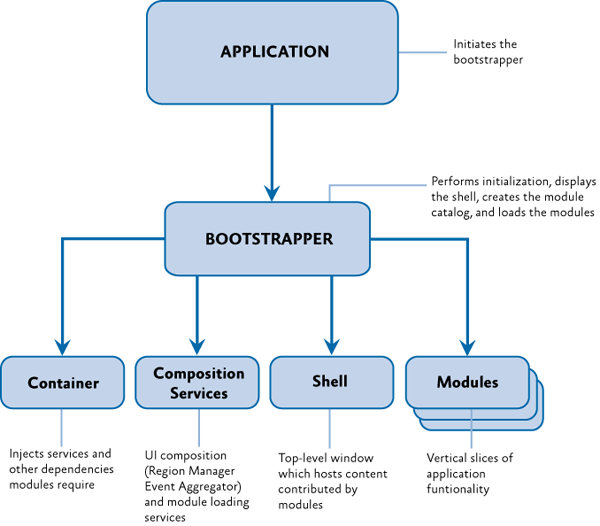
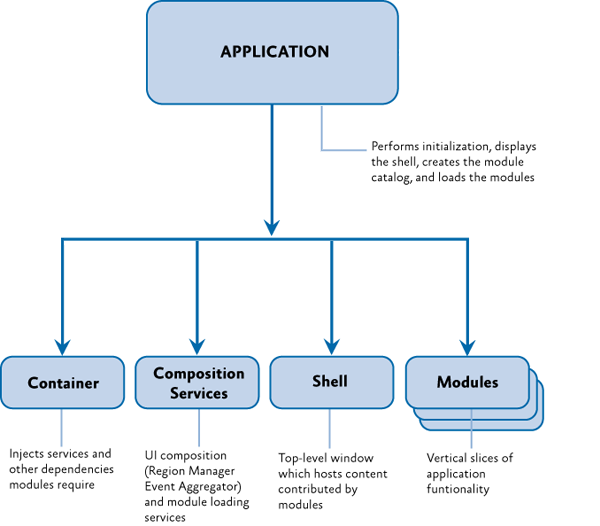
updated the initializing and introduction in wpf.

Changed region(s): [[0.27, 0.2738, 1.0, 0.5475], [0.66, 0.0608, 0.87, 0.1217], [0.51, 0.2129, 0.54, 0.2738]]

diff --git a/docs/wpf/Initializing.md b/docs/wpf/Initializing.md
@@ -2,83 +2,118 @@
 
 This topic addresses what needs to happen to get a Prism for WPF application up and running. A Prism application requires registration and configuration during the application startup process—this is known as bootstrapping the application. The Prism bootstrapping process includes creating and configuring a module catalog, creating a dependency injection container such as Unity, configuring default region adapter for UI composition, creating and initializing the shell view, and initializing modules.
 
-## What Is a Bootstrapper?
+## Initializing the Application
 
-A bootstrapper is a class that is responsible for the initialization of an application built using the Prism Library. By using a bootstrapper, you have more control of how the Prism Library components are wired up to your application.
+The Prism Library includes abstract classes that are derived from the Application class in WPF. Each of these abstract classes are centered around a dependency injection container. For the purposes of this article ```Prism.Unity.PrismApplication``` class will be used. Many of the methods in the ```PrismApplication``` class are virtual and can be overridden as appropriate for your needs.
 
-The Prism Library includes a default abstract **Bootstrapper** base class that can be specialized for use with any container. Many of the methods on the bootstrapper classes are virtual methods. You can override these methods as appropriate in your own custom bootstrapper implementation. 
+The PrismApplication class takes care of much of the boilerplate code that would typically need to be included to start up an app. Apps are only required to implement CreateShell and RegisterTypes.
 
-![Basic stages of the bootstrapping process](images/Ch2BootstrapperFig1.png)
+Below are the basic steps that take place within Prism for WPF.
 
-Basic stages of the bootstrapping process.
+| Step   | Override | Description |
+|--------|----------|-------------|
+| **1. Configure Viewmodel Locator** | Yes | This step creates the object that will automatically determine the correct view model type for a given view. |
+| **2. Create DI Container** | Yes | This step will create the dependency injection container and register it with the Application class. Though it can be overridden, if the app is using one of the containers supplied by the Prism Library, it probably shouldn't be. |
+| **3. Create Module Catalog** | Yes | This step creates the module catalog that is used to manage the loading and dependencies of the modules in an application. By default, this step provides the most basic module catalog implementation where the app registers modules via code. Override this to use a different catalog technique. |
+| **4. DI Prism Services** | Yes | This step is used to register all of the services that Prism requires with the selected dependency injection container. It can be overridden, but probably shouldn't. App specific services should instead be registered in step 4 |
+| **5. DI App Services** | **MUST** | This step is used to register all of the app specific services with the selected dependency injection container. This method must be implemented. |
+| **6. Service Locator** | Yes | The IServiceLocator pattern is used extensively in the regions section of Prism. It is hooked up the DI container so that it can properly resolve objects. |
+| **7. Configure Module Catalog** | Yes | If the app is registering modules via code, override this function to perform that operation. |
+| **8. Configure Region Adapter Mappings** | Yes | This step configures the default region adapter mappings. |
+| **9. Configure Region Behavior** | Yes | Configure the list of default behaviors that will be added to regions. |
+| **10. Register Exceptions**| Yes | Registers exception types that are part of the framework. |
+| **11. Create Main Window**| **MUST** | This step is used to create the main window and must be overridden for each app. Remember to use the container to create the object so that all the services will be injected. |
+| **12. Initialize Modules** | Yes | This step is used to go through the module catalog and load and initialize each. Probably doesn't need to be overridden. |
+| **13. OnInitialized** | Yes | Final step before the app is visible to the user. Just displays the MainWindow. Probably doesn't need to be overridden. |
 
-The Prism Library provides some additional base classes, derived from **Bootstrapper**, that have default implementations that are appropriate for most applications. The only stages left for your application bootstrapper to implement are creating and initializing the shell.
+
 
 ## Dependency Injection
 
-Applications built with the Prism Library rely on dependency injection provided by a container. The library provides assemblies that work with the Unity Application Block (Unity) or Managed Extensibility Framework (MEF), and it allows you to use other dependency injection containers. Part of the bootstrapping process is to configure this container and register types with the container.
-
-The Prism Library includes the **UnityBootstrapper** and **MefBootstrapper** classes, which implement most of the functionality necessary to use either Unity or MEF as the dependency injection container in your application. In addition to the stages shown in the previous illustration, each bootstrapper adds some steps specific to its container.
+Applications built with the Prism Library rely on dependency injection provided by a container. The library provides assemblies that work with the Unity, AutoFAC, Dryloc, MEF, Ninject and StructureMap. It also allows the application to use other dependency injection containers. Part of the bootstrapping process is to configure this container and register types with the container.
 
 ## Creating the Shell
 
 In a traditional Windows Presentation Foundation (WPF) application, a startup Uniform Resource Identifier (URI) is specified in the App.xaml file that launches the main window.
 
-In an application created with the Prism Library, it is the bootstrapper's responsibility to create the shell or the main window. This is because the shell relies on services, such as the Region Manager, that need to be registered before the shell can be displayed.
+In an application created with the Prism Library, the application class will create the main window using the container so that any needed dependencies are automatically injected in, such as the Region Manager, the Event Aggregator etc. It would look something like this in the Application class:
+```
+protected override Window CreateShell()
+{
+    return Container.Resolve<MyAppMainWindow>();
+}
+```
 
 ## Key Decisions
 
-After you decide to use the Prism Library in your application, there are a number of additional decisions that need to be made:
+After deciding to use the Prism Library in the application, there are a number of additional decisions that need to be made:
 
-- You will need to decide whether you are using MEF, Unity, or another container for your dependency injection container. This will determine which provided bootstrapper class you should use and whether you need to create a bootstrapper for another container.
-- You should think about the application-specific services you want in your application. These will need to be registered with the container.
-- Determine whether the built-in logging service is adequate for your needs or if you need to create another logging service.
+- Decide which dependency injection container to use: MEF, Unity, or another. The Prism Library supplies implementation for AutoFac, Dryloc, MEF, Ninject, StructureMap and Unity out of the box. Or you can use something else if that makes sense for you. For out of the box options, use Nuget to add the correct packages to the application
+  - Prism.Unity
+  - Prism.AutoFac
+  - Prism.Dryloc
+  - Prism.MEF
+  - Prism.Ninject
+  - Prism.StructureMap
+- Determine the application-specific services required in the application. These will need to be registered with the container.
+- Determine whether the built-in logging service is adequate for the application or if another logging service needs to be created.
 - Determine how modules will be discovered by the application: via explicit code declarations, code attributes on the modules discovered via directory scanning, configuration, or XAML.
 
 The rest of this topic provides more details.
 
 ## Core Scenarios
 
-Creating a startup sequence is an important part of building your Prism application. This section describes how to create a bootstrapper and customize it to create the shell, configure the dependency injection container, register application level services, and how to load and initialize the modules.
+Creating a startup sequence is an important part of building a Prism application. This section describes the steps to take a new WPF application project created in Visual Studio and turn it into a Prism based app. Below it is assumed that Unity will be the dependency injection container.
 
-## Creating a Bootstrapper for Your Application
+### Add the Nuget Packages
+After creating the project, add the Prism.Unity nuget package to the app. This will automatically add in other dependencies such as Prism.WPF, Prism.Core and Unity.
 
-If you choose to use either Unity or MEF as your dependency injection container, creating a simple bootstrapper for your application is easy. You will need to create a new class that derives from either **MefBootstrapper** or **UnityBootstrapper**. Then, implement the **CreateShell** method. Optionally, you may override the **InitializeShell** method for shell specific initialization.
+### Update the App Class to Derive from PrismApplication
 
-### Implementing the CreateShell Method
+In the App.xaml markup file, add in the name space declaration and update the base class type:
+```
+<prism:PrismApplication x:Class="HelloWorld.App"
+    xmlns="http://schemas.microsoft.com/winfx/2006/xaml/presentation"
+    xmlns:x="http://schemas.microsoft.com/winfx/2006/xaml"
+    xmlns:prism="http://prismlibrary.com/"
+    xmlns:local="clr-namespace:HelloWorld">
+    <Application.Resources>
+         
+    </Application.Resources>
+</prism:PrismApplication>
+```
 
-The **CreateShell** method allows a developer to specify the top-level window for a Prism application. The shell is usually the **MainWindow** or **MainPage**. Implement this method by returning an instance of your application's shell class. In a Prism application, you can create the shell object, or resolve it from the container, depending on your application's requirements.
-
-An example of using the **ServiceLocator** to resolve the shell object is shown in the following code example.
-
-```cs
-protected override DependencyObject CreateShell()
+And in the App.xaml.cs class, update the base class and override the abstract methods.
+```
+public partial class App : Prism.Unity.PrismApplication
 {
-    return ServiceLocator.Current.GetInstance<Shell>();
+    public App()
+    {
+    }
+
+    protected override Window CreateShell()
+    {
+        // MainWindow is the shell window of the app
+        return Container.Resolve<MainWindow>();
+    }
+
+    protected override void RegisterTypes()
+    {
+        // register app specific services here
+    }
 }
 ```
 
-_**Note:** You will often see the **ServiceLocator** being used to resolve instances of types instead of the specific dependency injection container. The **ServiceLocator** is implemented by calling the container, so it makes a good choice for container agnostic code. You can also directly reference and use the container instead of the **ServiceLocator**._
+## Creating and Configuring the Container
 
-### Implementing the InitializeShell Method
+Containers play a key role in an application created with the Prism Library. Both the Prism Library and the applications built on top of it depend on a container for injecting required dependencies and services. During the container configuration phase, several core services are registered. In addition to these core services, you may have application-specific services that provide additional functionality as it relates to composition. Register the application specific services in the ```RegisterTypes()``` function.
 
-After you create a shell, you may need to run initialization steps to ensure that the shell is ready to be displayed. For WPF applications, you will create the shell application object and set it as the application's main window, as shown here (from the Modularity QuickStarts for WPF).
-
-```cs
-protected override void InitializeShell()
-{
-    Application.Current.MainWindow = Shell;
-    Application.Current.MainWindow.Show();
-}
-```
-
-The base implementation of **InitializeShell** does nothing. It is safe to not call the base class implementation. 
 
 ## Creating and Configuring the Module Catalog
 
-If you are building a module application, you will need to create and configure a module catalog. Prism uses a concrete **IModuleCatalog** instance to keep track of what modules are available to the application, which modules may need to be downloaded, and where the modules reside.
+If the app is a module application, a module catalog will need to be created and configured. Prism uses a concrete ```IModuleCatalog``` instance to keep track of what modules are available to the application, which modules may need to be downloaded, and where the modules reside.
 
-The **Bootstrapper** provides a protected **ModuleCatalog** property to reference the catalog as well as a base implementation of the virtual **CreateModuleCatalog** method. The base implementation returns a new **ModuleCatalog**; however, this method can be overridden to provide a different **IModuleCatalog** instance instead, as shown in the following code from the **QuickStartBootstrapper** in the Modularity with MEF for WPF QuickStart.
+The ```PrismApplication``` class provides a protected ```ModuleCatalog``` property to reference the catalog as well as a base implementation of the virtual ```CreateModuleCatalog``` method. The base implementation returns a new instance of ```ModuleCatalog```; however, this method can be overridden to provide a different ```IModuleCatalog``` instance, one that uses a configuration file instead.
 
 ```cs
 protected override IModuleCatalog CreateModuleCatalog()
@@ -88,12 +123,6 @@ protected override IModuleCatalog CreateModuleCatalog()
     return new ConfigurationModuleCatalog()
 }
 ```
-
-In both the **UnityBootstrapper** and **MefBootstrapper** classes, the Run method calls the **CreateModuleCatalog** method and then sets the class's **ModuleCatalog** property using the returned value. If you override this method, it is not necessary to call the base class's implementation because you will replace the provided functionality. For more information about modularity, see "Modular Application Development."
-
-## Creating and Configuring the Container
-
-Containers play a key role in an application created with the Prism Library. Both the Prism Library and the applications built on top of it depend on a container for injecting required dependencies and services. During the container configuration phase, several core services are registered. In addition to these core services, you may have application-specific services that provide additional functionality as it relates to composition.
 
 ### Core Services
 
@@ -109,108 +138,4 @@ The following table lists the core non-application specific services in the Pris
 | **ILoggerFacade**      | A wrapper for a logging mechanism, so you can choose your own logging mechanism. The Stock Trader Reference Implementation (Stock Trader RI) uses the Enterprise Library Logging Application Block, via the **EnterpriseLibraryLoggerAdapter** class, as an example of how you can use your own logger. The logging service is registered with the container by the bootstrapper's **Run** method, using the value returned by the **CreateLogger** method. Registering another logger with the container will not work; instead override the **CreateLogger** method on the bootstrapper. |
 | **IServiceLocator**    | Allows the Prism Library to access the container. If you want to customize or extend the library, this may be useful. |
 
-There are two Bootstrapper-derived classes available in Prism, the **UnityBootstrapper** and the **MefBootstrapper**. Creating and configuring the different containers involve similar concepts that are implemented differently.
 
-### Creating and Configuring the Container in the UnityBootstrapper
-
-The **UnityBootstrapper** class's **CreateContainer** method simply creates and returns a new instance of a **UnityContainer**. In most cases, you will not need to change this functionality; however, the method is virtual, thereby allowing that flexibility.
-
-After the container is created, it probably needs to be configured for your application. The **ConfigureContainer** implementation in the **UnityBootstrapper** registers a number of core Prism services by default, as shown here. 
-
-_**Note:** An example of this is when a module registers module-level services in its **Initialize** method._
-
-```cs
-   // UnityBootstrapper.cs
-protected virtual void ConfigureContainer()
-{
-    ...
-
-    if (useDefaultConfiguration)
-    {
-         RegisterTypeIfMissing(typeof(IServiceLocator), typeof(UnityServiceLocatorAdapter), true);
-         RegisterTypeIfMissing(typeof(IModuleInitializer), typeof(ModuleInitializer), true);
-         RegisterTypeIfMissing(typeof(IModuleManager), typeof(ModuleManager), true);
-         RegisterTypeIfMissing(typeof(RegionAdapterMappings), typeof(RegionAdapterMappings), true)
-         RegisterTypeIfMissing(typeof(IRegionManager), typeof(RegionManager), true);
-         RegisterTypeIfMissing(typeof(IEventAggregator), typeof(EventAggregator), true);
-         RegisterTypeIfMissing(typeof(IRegionViewRegistry), typeof(RegionViewRegistry), true);
-         RegisterTypeIfMissing(typeof(IRegionBehaviorFactory), typeof(RegionBehaviorFactory), true);
-         RegisterTypeIfMissing(typeof(IRegionNavigationJournalEntry), typeof(RegionNavigationJournalEntry), false);
-         RegisterTypeIfMissing(typeof(IRegionNavigationJournal), typeof(RegionNavigationJournal), false);
-         RegisterTypeIfMissing(typeof(IRegionNavigationService), typeof(RegionNavigationService), false);
-         RegisterTypeIfMissing(typeof(IRegionNavigationContentLoader), typeof(UnityRegionNavigationContentLoader), true);
-
-    }
-}
-```
-
-The bootstrapper's **RegisterTypeIfMissing** method determines whether a service has already been registered—it will not register it twice. This allows you to override the default registration through configuration. You can also turn off registering any services by default; to do this, use the overloaded **Bootstrapper.Run** method passing in **false**. You can also override the **ConfigureContainer** method and disable services that you do not want to use, such as the event aggregator.
-
-_**Note:** If you turn off the default registration, you will need to manually register required services._
-
-To extend the default behavior of **ConfigureContainer**, simply add an override to your application's bootstrapper and optionally call the base implementation, as shown in the following code from the **QuickStartBootstrapper** from the Modularity for WPF (with Unity) QuickStart. This implementation calls the base class's implementation, registers the **ModuleTracker** type as the concrete implementation of **IModuleTracker**, and registers the **callbackLogger** as a singleton instance of **CallbackLogger** with Unity.
-
-```cs
-protected override void ConfigureContainer()
-{
-    base.ConfigureContainer();
-
-    this.RegisterTypeIfMissing(typeof(IModuleTracker), typeof(ModuleTracker), true);
-    this.Container.RegisterInstance<CallbackLogger>(this.callbackLogger);
-}
-```
-
-### Creating and Configuring the Container in the MefBootstrapper
-
-The **MefBootstrapper** class's **CreateContainer** method does several things. First, it creates an **AssemblyCatalog** and a **CatalogExportProvider**. The **CatalogExportProvider** allows the **MefExtensions** assembly to provide default exports for a number of Prism types and still allows you to override the default type registration. Then **CreateContainer** creates and returns a new instance of a **CompositionContainer** using the **CatalogExportProvider**. In most cases, you will not need to change this functionality; however, the method is virtual, thereby allowing that flexibility.
-
-After the container is created, it needs to be configured for your application. The **ConfigureContainer** implementation in the **MefBootstrapper** registers a number of core Prism services by default, as shown in the following code example. If you override this method, consider carefully whether you should invoke the base class's implementation to register the core Prism services, or if you will provide these services in your implementation.
-
-```cs
-protected virtual void ConfigureContainer()
-{
-    this.RegisterBootstrapperProvidedTypes();
-}
-
-protected virtual void RegisterBootstrapperProvidedTypes()
-{
-    this.Container.ComposeExportedValue<ILoggerFacade>(this.Logger);
-    this.Container.ComposeExportedValue<IModuleCatalog>(this.ModuleCatalog);
-    this.Container.ComposeExportedValue<IServiceLocator>(new MefServiceLocatorAdapter(this.Container));
-    this.Container.ComposeExportedValue<AggregateCatalog>(this.AggregateCatalog);
-}
-```
-
-_**Note:** In the **MefBootstrapper**, the core services of Prism are added to the container as singletons so they can be located through the container throughout the application._
-
-In addition to providing the **CreateContainer** and **ConfigureContainer** methods, the **MefBootstrapper** also provides two methods to create and configure the **AggregateCatalog** used by MEF. The **CreateAggregateCatalog** method simply creates and returns an **AggregateCatalog** object. Like the other methods in the **MefBootstrapper**, **CreateAggregateCatalog** is virtual and can be overridden if necessary.
-
-The **ConfigureAggregateCatalog** method allows you to add type registrations to the **AggregateCatalog** imperatively. For example, the **QuickStartBootstrapper** from the Modularity with MEF QuickStart explicitly adds ModuleA and ModuleC to the **AggregateCatalog**, as shown here.
-
-```cs
-protected override void ConfigureAggregateCatalog()
-{
-    base.ConfigureAggregateCatalog();
-
-    // Add this assembly to export ModuleTracker
-    this.AggregateCatalog.Catalogs.Add(
-        new AssemblyCatalog(typeof(QuickStartBootstrapper).Assembly));
-
-    // Module A is referenced in in the project and directly in code.
-    this.AggregateCatalog.Catalogs.Add(
-        new AssemblyCatalog(typeof(ModuleA.ModuleA).Assembly));
-
-    this.AggregateCatalog.Catalogs.Add(
-        new AssemblyCatalog(typeof(ModuleC.ModuleC).Assembly));
-
-    // Module B and Module D are copied to a directory as part of a post-build step.
-    // These modules are not referenced in the project and are discovered by inspecting a directory.
-    // Both projects have a post-build step to copy themselves into that directory.
-    DirectoryCatalog catalog = new DirectoryCatalog("DirectoryModules");
-    this.AggregateCatalog.Catalogs.Add(catalog);
-}
-```
-
-### More Information
-
-For more information about MEF, **AggregateCatalog**, and **AssemblyCatalog**, see [Managed Extensibility Framework Overview](http://msdn.microsoft.com/en-us/library/dd460648.aspx) on MSDN.

diff --git a/docs/wpf/Introduction.md b/docs/wpf/Introduction.md
@@ -125,10 +125,11 @@ Prism provides capabilities and design patterns that may be unfamiliar to you, e
 - **Regions**. Regions are logical placeholders defined within the application's UI (in the shell or within views) into which views are displayed. Regions allow the layout of the application's UI to be updated without requiring changes to the application logic. Many common controls can be used as a region, allowing views to be automatically displayed within controls, such as a **ContentControl**, **ItemsControl**, **ListBox**, or **TabControl**. Views can be displayed within a region programmatically or automatically. Prism also provides support for implementing navigation with regions. Regions can be located by other components through the **RegionManager** component, which uses **RegionAdapter** and **RegionBehavior** components to coordinate the display of views within specific regions.
 - **Navigation**. Navigation is defined as the process by which the application coordinates changes to its UI as a result of the user's interaction with the application or internal application state changes. Prism supports two styles of navigation: state-based navigation, where the state of an existing view is updated to implement simple navigation scenarios, and view-switching navigation, where new views are created and old views replaced within the application's UI. View-switching navigation uses a Uniform Resource Identifier (URI)–based navigation mechanism in conjunction with Prism regions to allow flexible navigation schemes to be implemented.
 -  **EventAggregator**. Components in a composite application often need to communicate with other components and services in the application in a loosely coupled way. To support this, Prism provides the **EventAggregator** component, which implements a pub-sub event mechanism, thereby allowing components to publish events and other components to subscribe to those events without either of them requiring a reference to the other. The **EventAggregator** is often used to allow components defined in different modules to communicate with each other.
-- **Dependency injection container**. The Dependency Injection (DI) pattern is used throughout Prism to allow the dependencies between components to be managed. Dependency injection allows component dependencies to be fulfilled at run time, and it supports extensibility and testability. Prism is designed to work with Unity or MEF, or with any other dependency injection containers via the **ServiceLocator**.
+- **Dependency injection container**. The Dependency Injection (DI) pattern is used throughout Prism to allow the dependencies between components to be managed. Dependency injection allows component dependencies to be fulfilled at run time, and it supports extensibility and testability. Prism currently works with Unity, Dryloc, Ninject and StructureMap. You could also extend Prism to work with another DI container if you wish.
+- **Dependency injection container**. The Dependency Injection (DI) pattern is used throughout Prism to allow the dependencies to be fulfilled at run time, and it supports extensibility and testability. Prism currently works with Unity, Dryloc, Ninject and StructureMap. You could also extend Prism to work with another DI container if you wish. 
 - **Services**. Services are components that encapsulate non-UI related functionality, such as logging, exception management, and data access. Services can be defined by the application or within a module. Services are often registered with the dependency injection container so that they can be located or constructed as required and used by other components that depend on them.
 - **Controllers**. Controllers are classes that are used to coordinate the construction and initialization of views that are to be displayed in a region within the application's UI. Controllers encapsulate the presentation logic that determines which views are to be displayed. The controller will use Prism's view-switching navigation mechanism, which provides an extensible URI-based navigation mechanism to coordinate the construction and placement of views within regions. The Application Controller pattern defines an abstraction that maps to this responsibility.
-- **Bootstrapper**. The **Bootstrapper** component is used by the application to initialize the various Prism components and services. It is used to initialize the dependency injection container to register any application-level components and services with it. It is also used to configure and initialize the module catalog and the shell's view and view model or presenter.
+- **Bootstrapper**. This is the App object in the application. It is derived from PrismApplication. There are multiple versions of the PrismApplication class that can be derived from: these are based on the dependency injection container that is selected. This class will initialize that dependency injection container and any services that Prism uses, such as logging. At a minimum the application must implement methods to create the main window and register any services that the application needs.
 
 Prism is designed so that you can use any of the preceding capabilities and design patterns individually, or all together, depending on your requirements and your application scenario. You can use the MVVM pattern, modularity, regions, commands, or events in any combination without having to adopt all of them. Of course, if you want to take full advantage of the benefits that separation of concerns and loose coupling offers, you will typically use many of Prism's capabilities and design patterns in conjunction with each other. The following illustration shows a typical Prism application architecture and shows how all the various capabilities of Prism can work together within a multi-module composite application.
 
@@ -162,17 +163,16 @@ The application shell provides the basic layout for the application. This layout
 
 ![Shells, views, and regions](images/Ch1IntroFig5.png)
 
-### Create the Bootstrapper
-
-The bootstrapper is the glue that connects the application with the Prism Library services and the Unity or MEF containers. Each application creates an application-specific bootstrapper, which typically inherits from either **UnityBootstrapper** or **MefBootstrapper**, as shown in the following illustration. You will need to decide the approach you want to use to populate the module catalog. Minimally, each application will provide a module catalog and a shell.
-
-By default, the bootstrapper logs events using the .NET Framework **Trace** class. Most applications will want to supply their own logging services, such as Enterprise Library logging. Applications can supply their logging service in their bootstrapper.
-
-By default, the **UnityBootstrapper** and **MefBootstrapper** enable the Prism Library services. These can be disabled or replaced in your application-specific bootstrapper.
-
-![Connecting to the Prism Library](images/Ch1IntroFig6.png)
 
 Diagram demonstrating connecting to the Prism Library.
+
+### Create the Bootstrapper
+
+The bootstrapper is the glue that connects the application with the Prism Library services and the selected dependency injection container. In the application, the App object will derive from the dependency injection container enabled PrismApplication base class (Prism.Unity.PrismApplication, Prism.Dryloc.PrismApplication, etc). In the derived class, some abstract methods will need to be implemented, CreateShell and RegisterType. In addition, if needed, the application will need a method of populating the module catalog. At a minimum, each application will provide a module catalog and a shell.
+
+By default the bootstrapper logs events using the .NET Framework **Console.Out**. Most applications will want to supply a specific logging service. This can be specified in the bootstrapper.
+
+![Connecting to the Prism Library](images/Ch1IntroFig6.png)
 
 ### Create the Module
 
